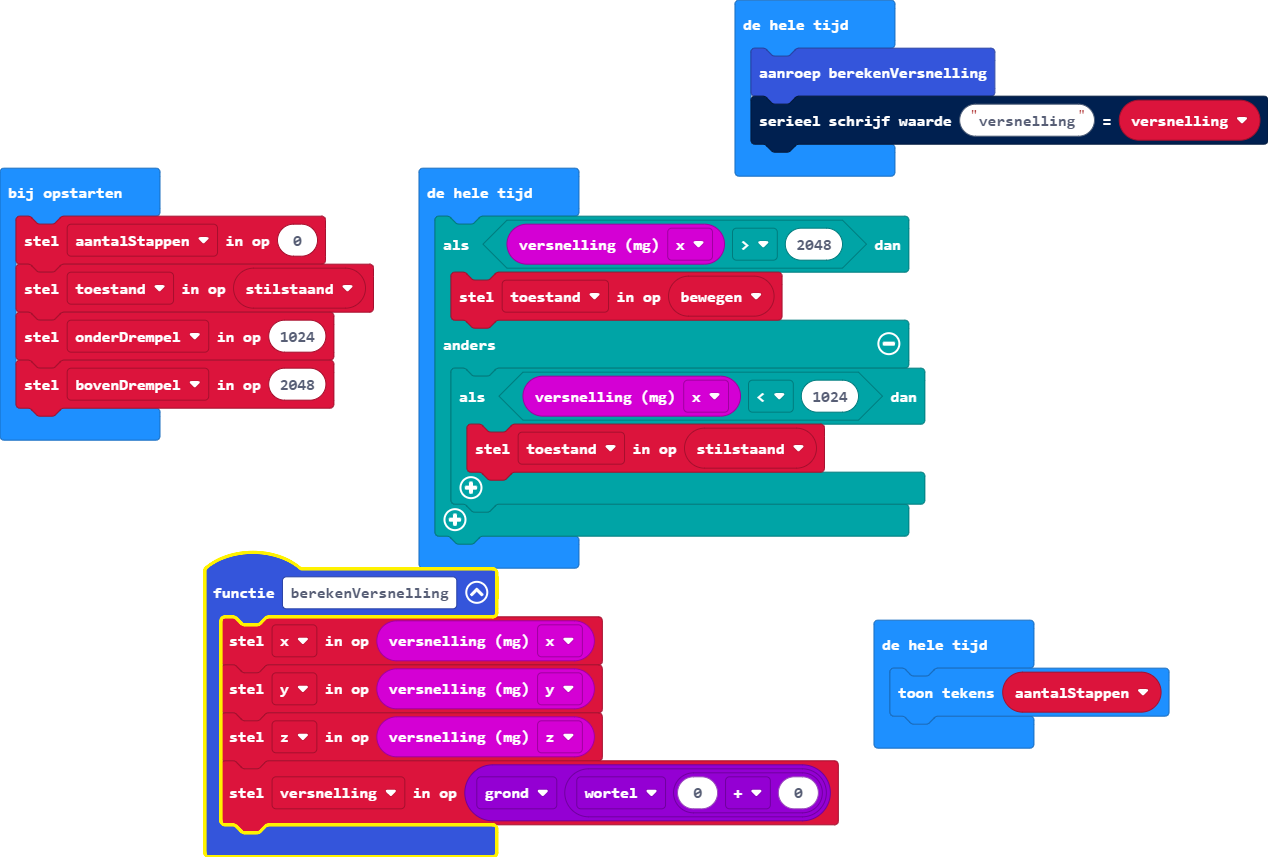
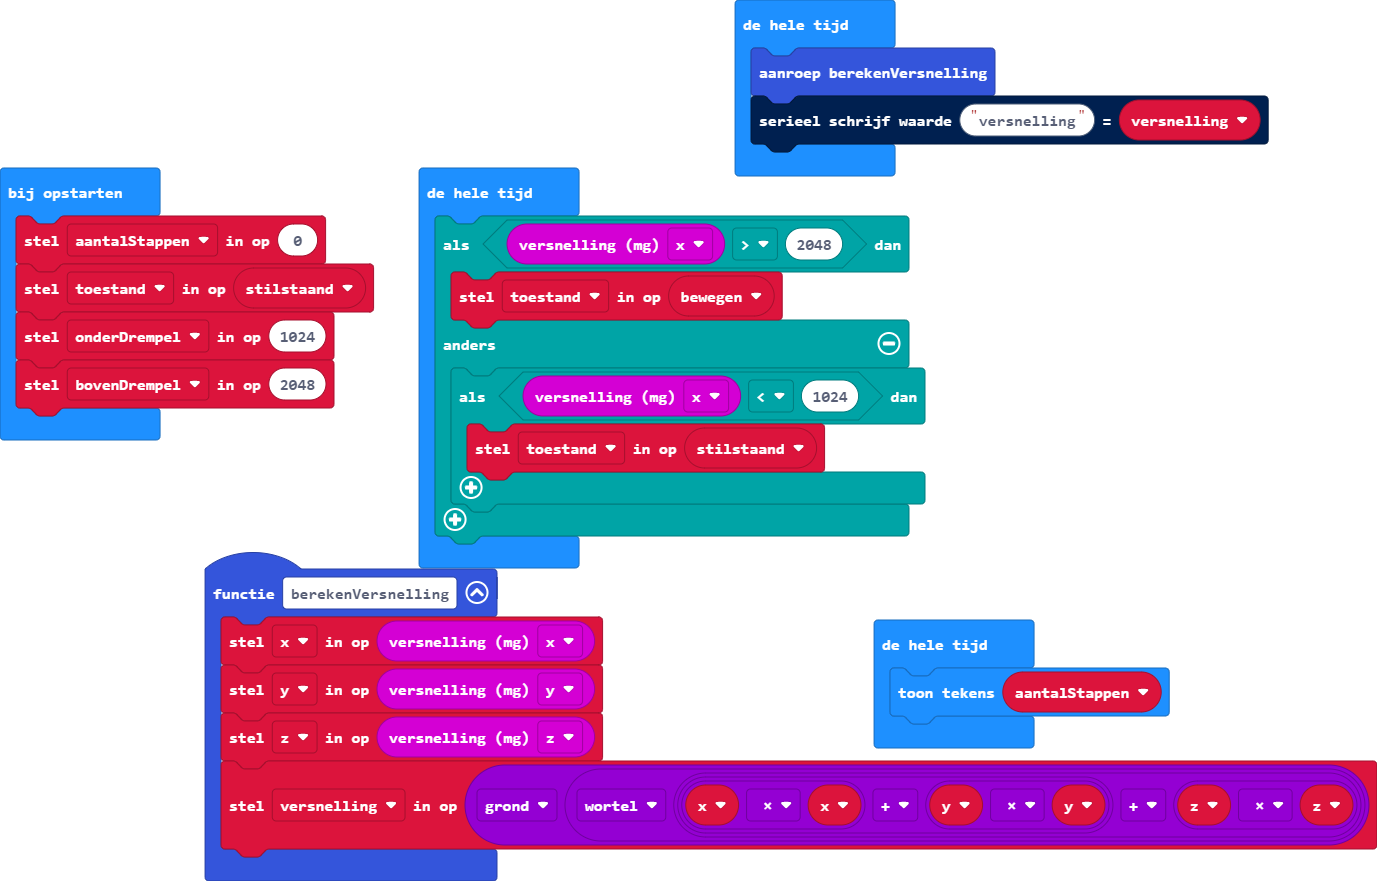
main.blocks, main.ts bijwerken

diff --git a/main.ts b/main.ts
@@ -2,7 +2,7 @@ function berekenVersnelling () {
     x = input.acceleration(Dimension.X)
     y = input.acceleration(Dimension.Y)
     z = input.acceleration(Dimension.Z)
-    versnelling = Math.floor(Math.sqrt(0 + 0))
+    versnelling = Math.floor(Math.sqrt(x * x + y * y + z * z))
 }
 let versnelling = 0
 let z = 0
